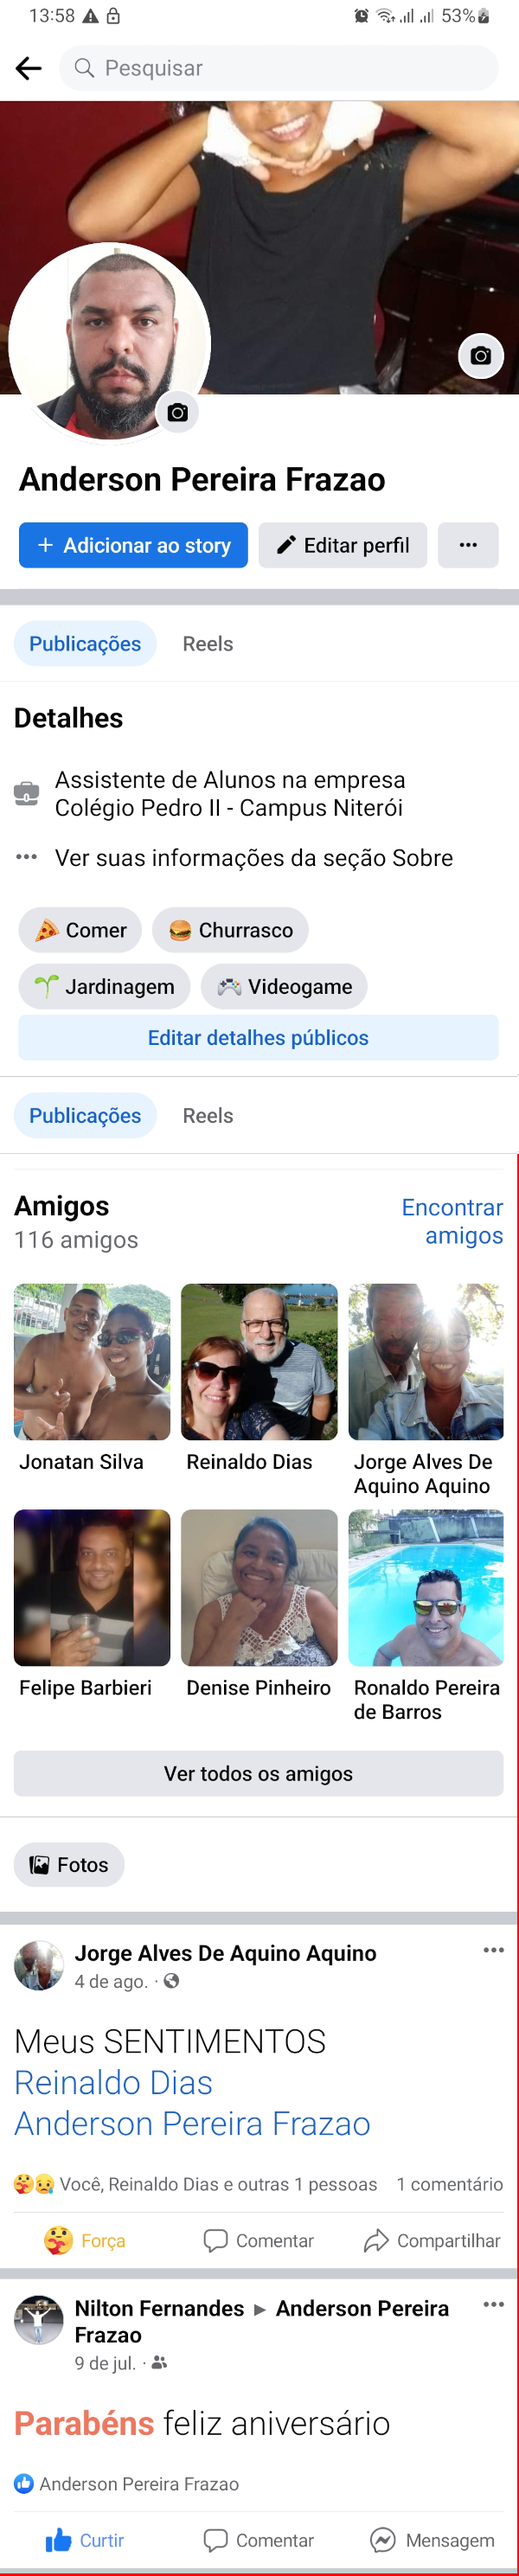
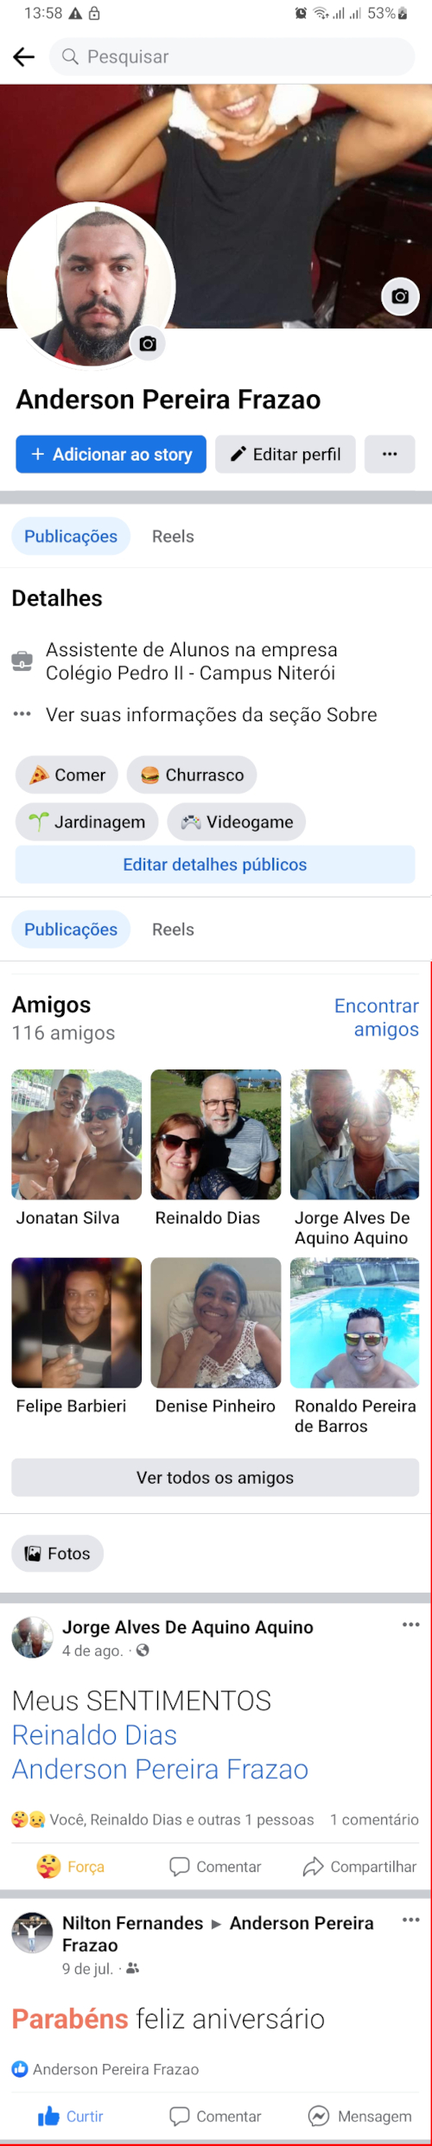
foto facebook

diff --git a/face.html b/face.html
@@ -8,7 +8,7 @@
     
 </head>
 <body>
-    <img src="..//Projeto-redessociais/pacote-d013/pacote-d013/imagens/tela_Facebook.jpg" alt="Facebook">
+    <img src="..//Projeto-redessociais/pacote-d013/pacote-d013/imagens/tela_facebook.jpg" alt="Facebook">
     <a href="https://web.facebook.com/anderson.p.frazao.9" target="_blank">ACESSE</a>
 </body>
 </html>
